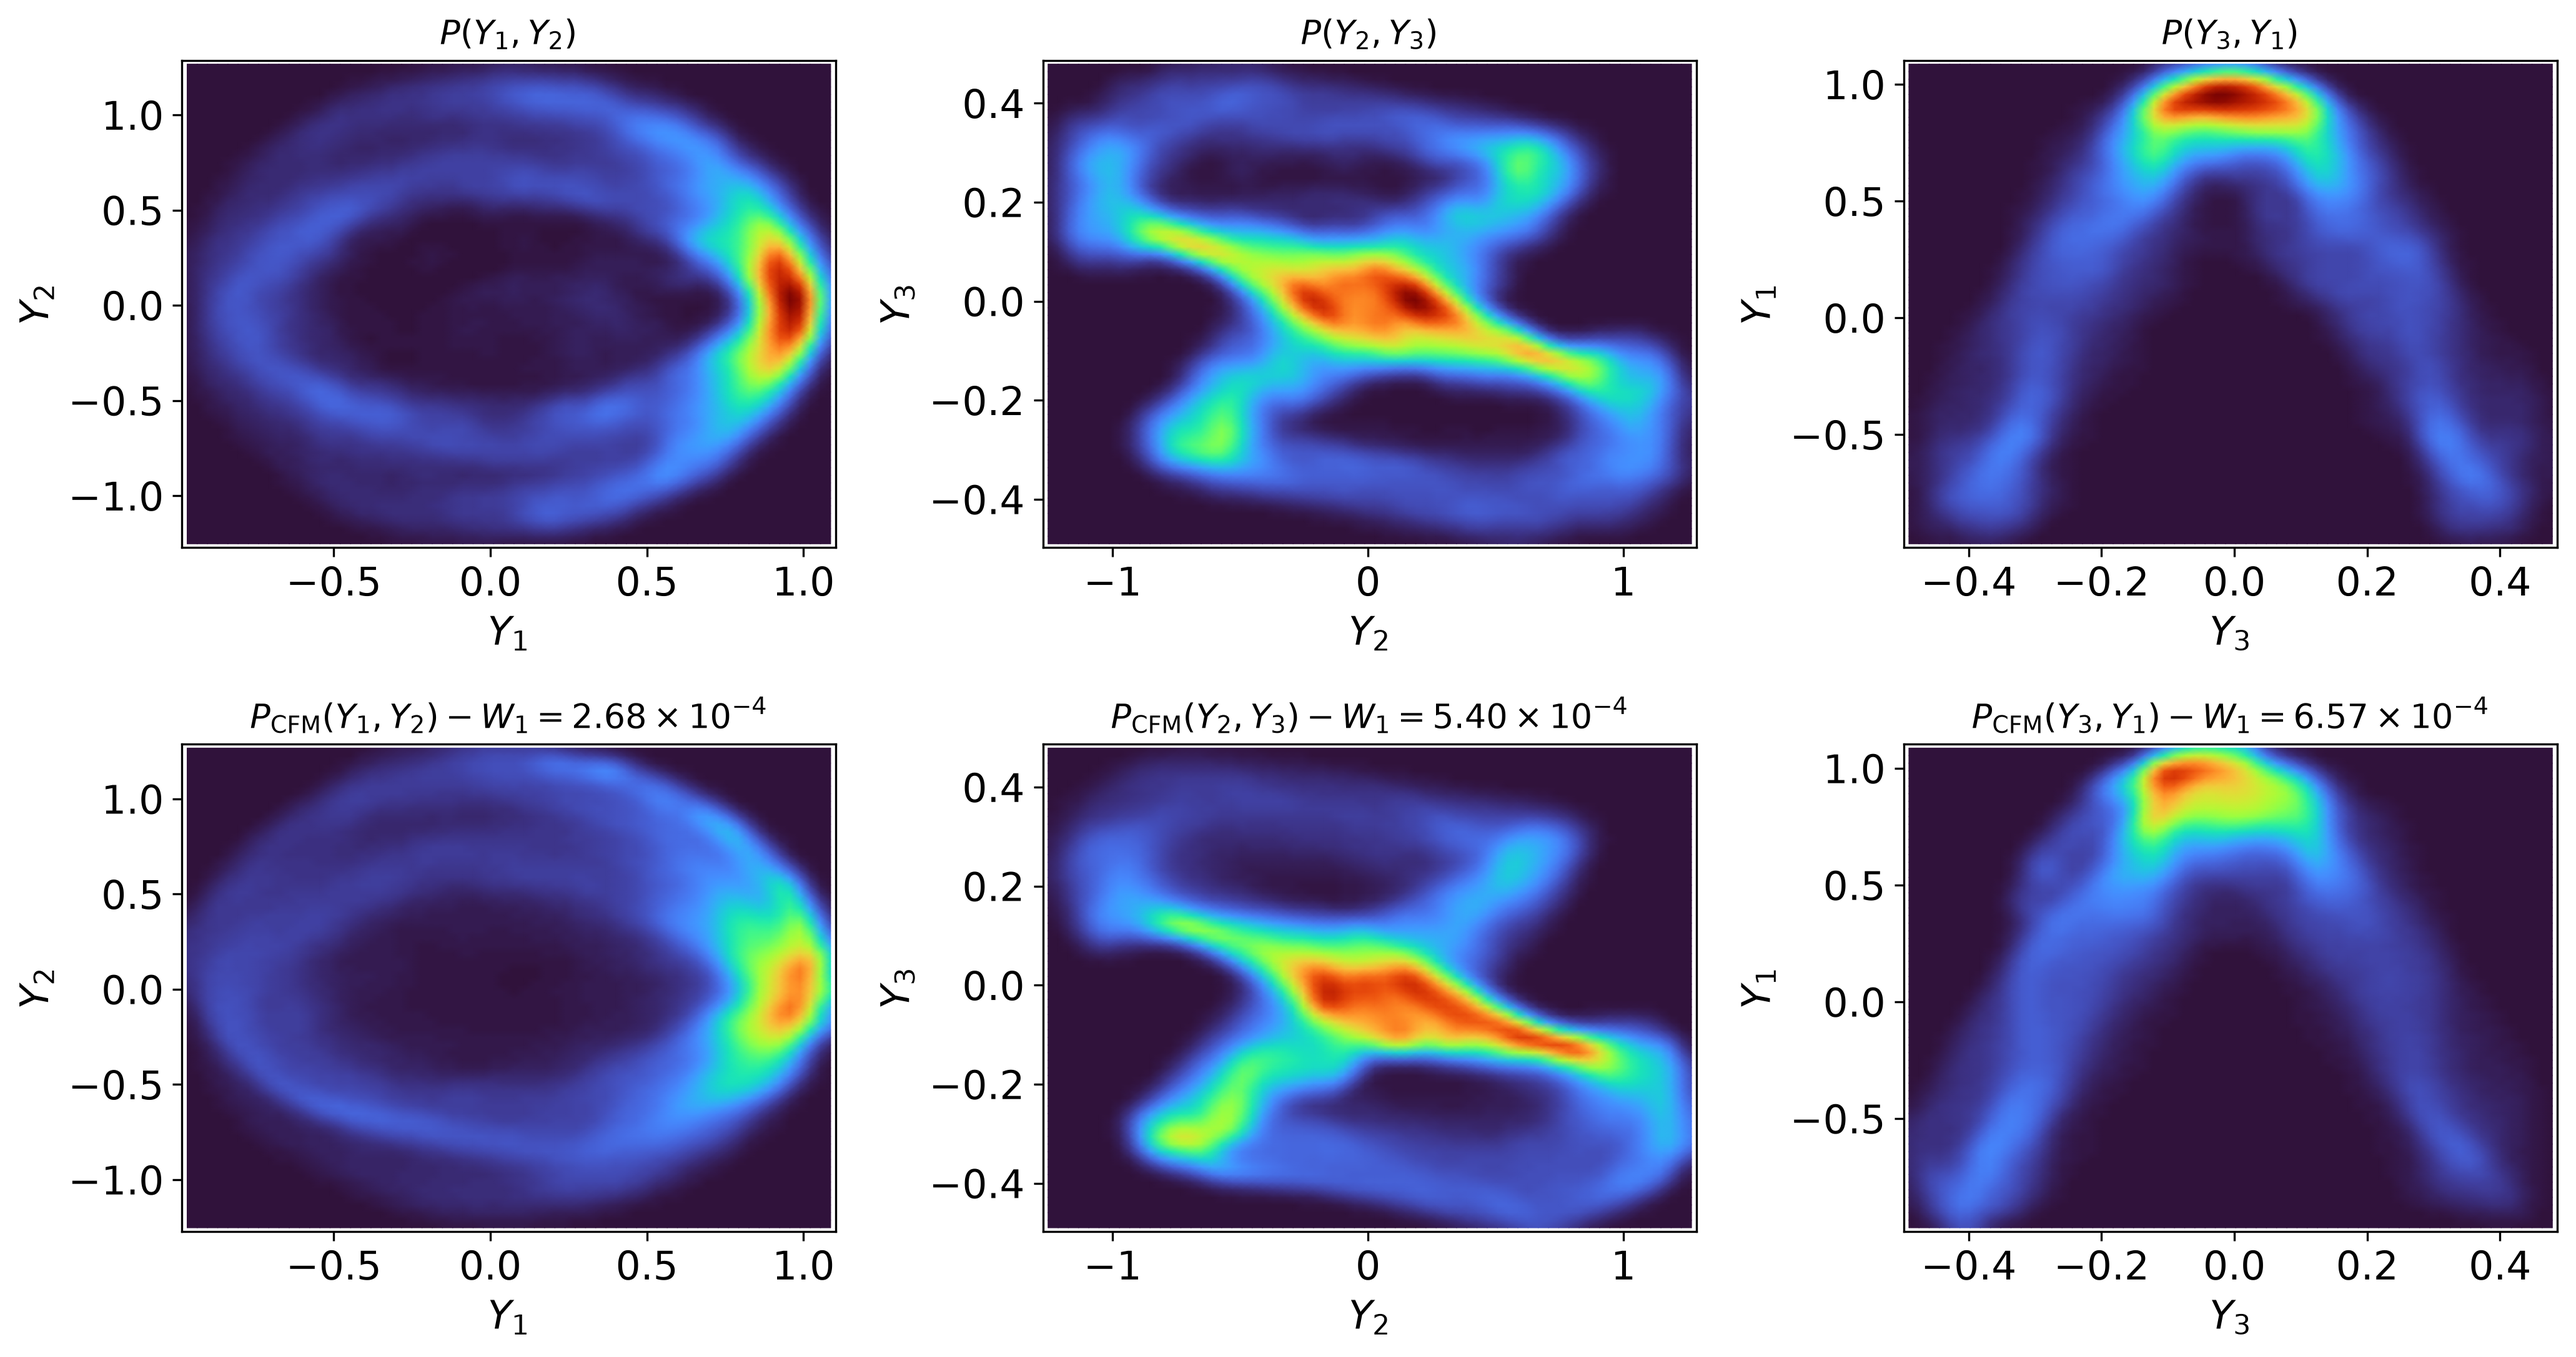
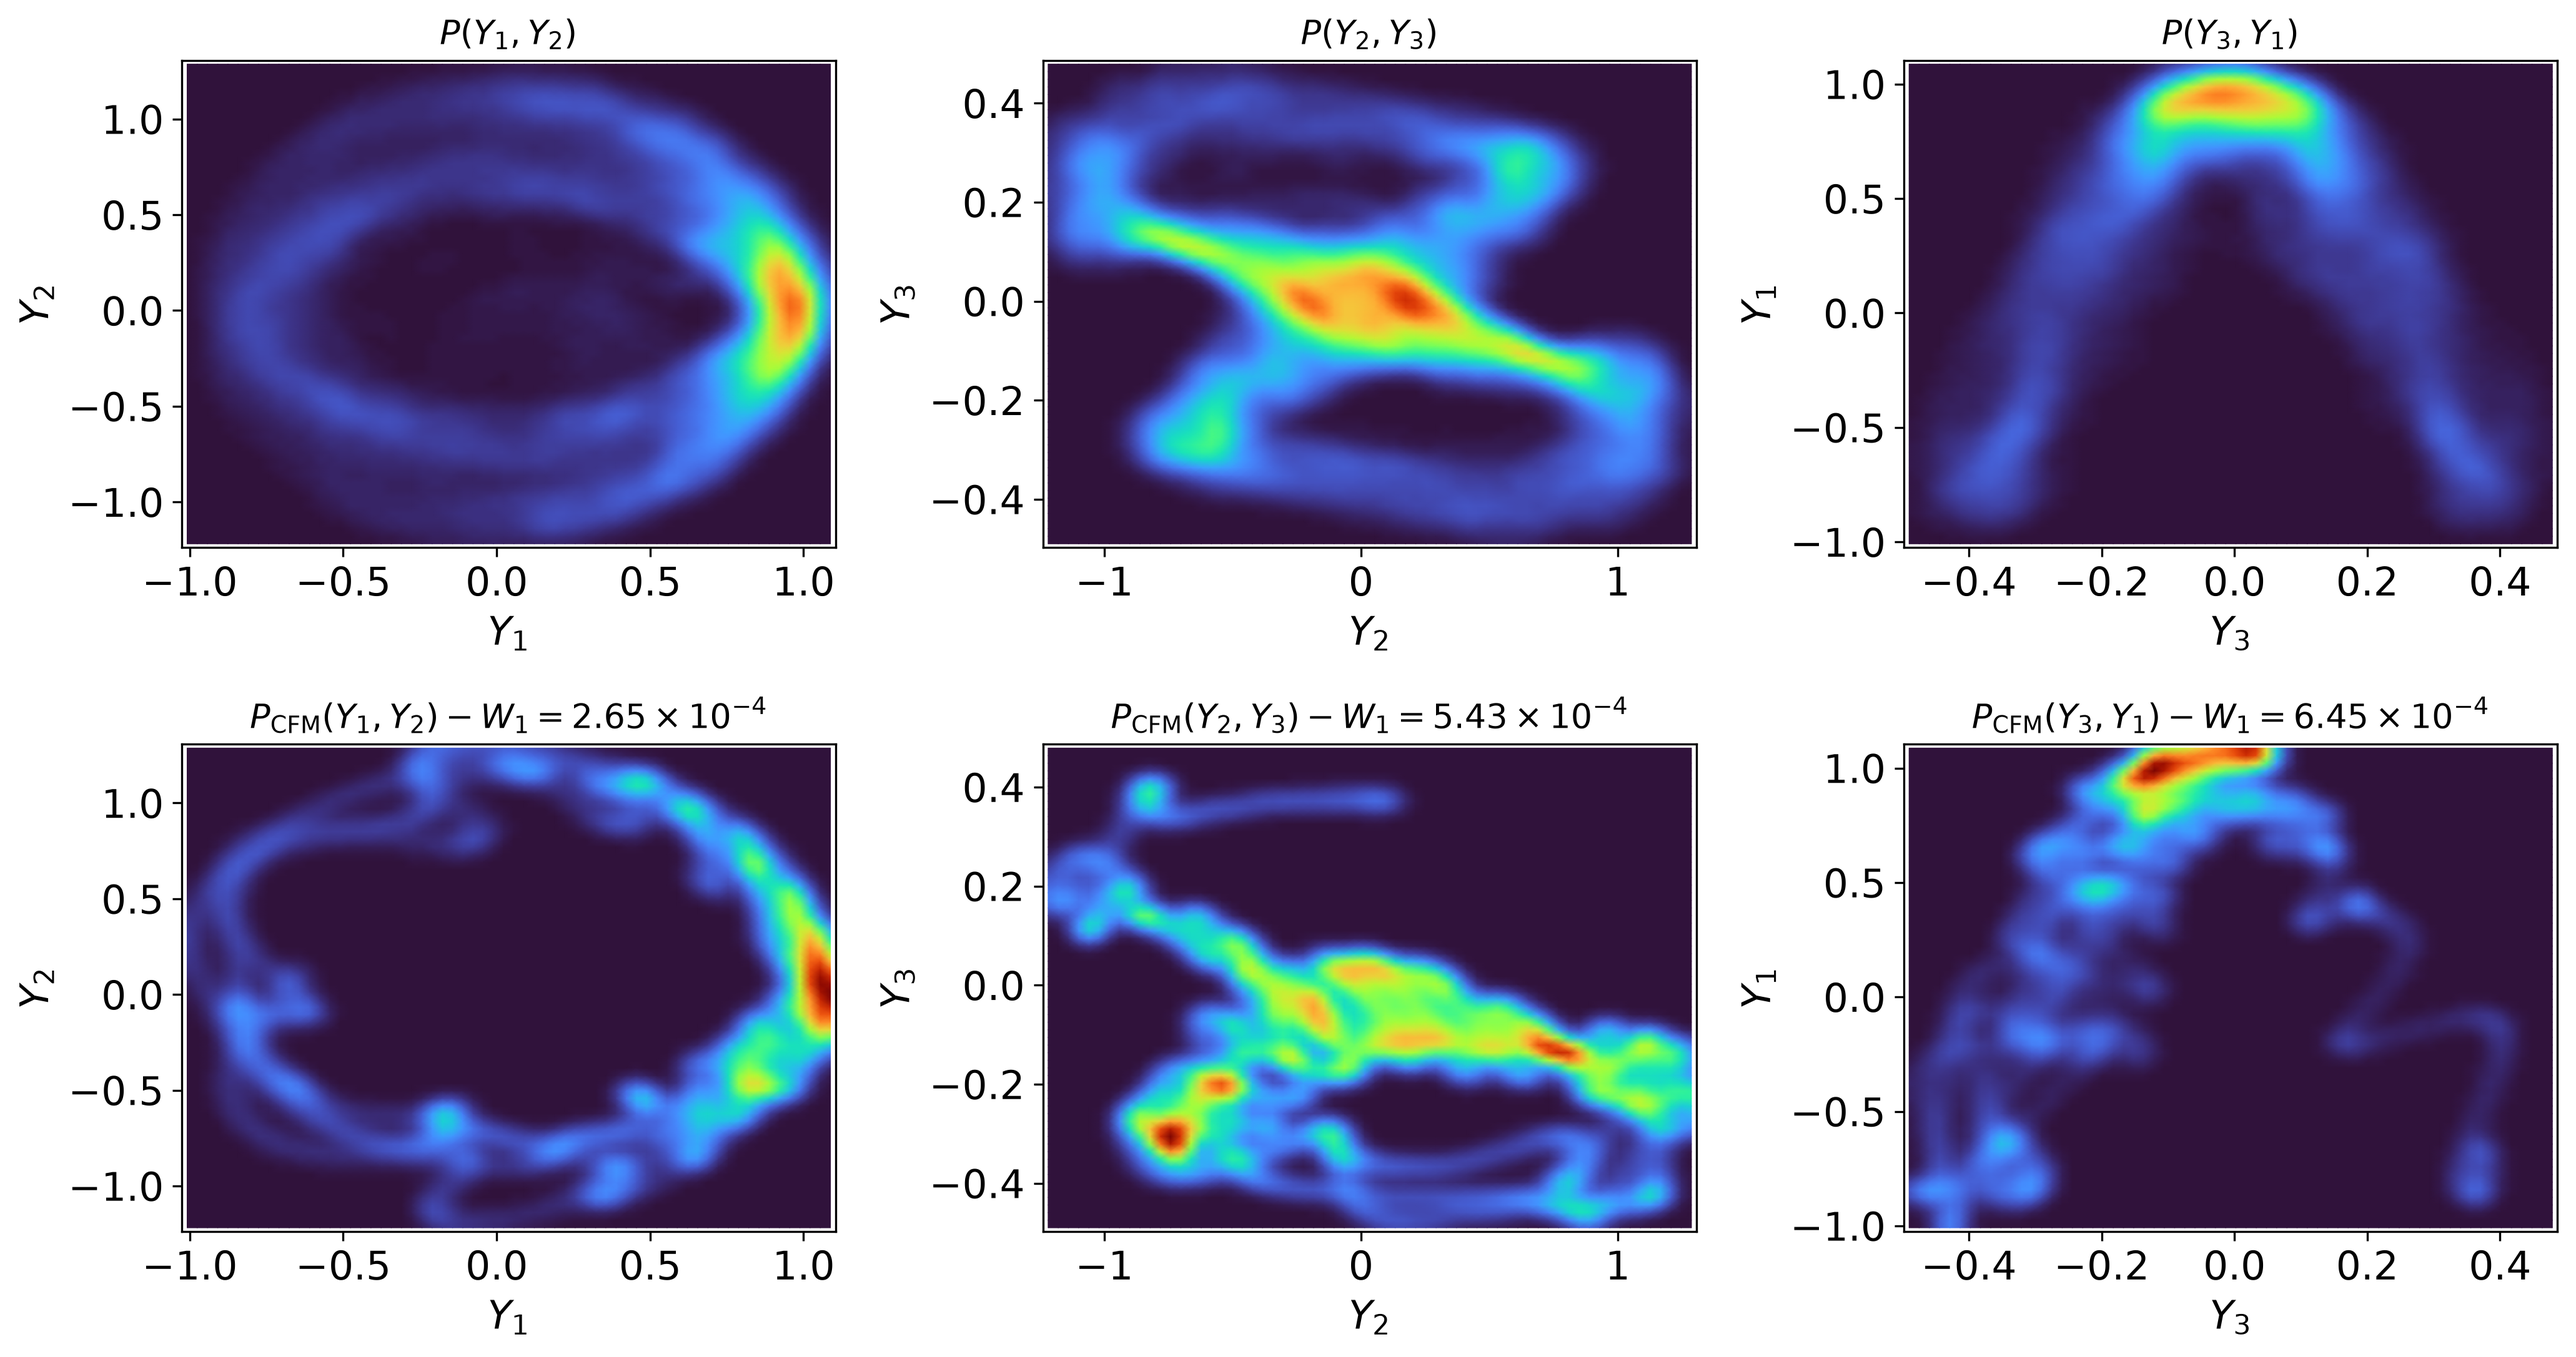
add: tail sampling preliminar strategy
The tail sampling is working, but now the model lost variance
We need to maintain the variance of the ensemble

diff --git a/src/cfm.py b/src/cfm.py
@@ -27,6 +27,7 @@ class CFM:
 
     @torch.no_grad()
     def sample(self, input_samples, N_steps=cfm_steps):
+        # input_samples.shape : (N_samples, 3*K)
         self.model.eval()
         N_ens = input_samples.shape[0]
         device = input_samples.device
@@ -41,6 +42,38 @@ class CFM:
 
         x_hat, z_hat = z_tau[:, 0:3], z_tau[:, 3:6]
         return x_hat, z_hat
+
+    @torch.no_grad()
+    def tail_sample(self, input_samples, N_noise=32, N_steps=cfm_steps):
+        # input_samples.shape : (N_samples, 3*K)
+        self.model.eval()
+        N_ens = input_samples.shape[0]
+        device = input_samples.device
+
+        ext_samples = input_samples.repeat_interleave(N_noise, dim=0)
+        
+        z_tau = torch.randn(N_ens * N_noise, 6, device=device)
+        d_tau = 1.0 / N_steps
+
+        for step in range(N_steps):
+            tau = torch.full((N_ens * N_noise, 1), step * d_tau, device=device)
+            v_flow = self.model(z_tau, tau, ext_samples)
+            z_tau += d_tau * v_flow
+
+        x_hat, z_hat = z_tau[:, 0:3], z_tau[:, 3:6]
+
+        # IMPORTANCE SAMPLING: EVT THEORY
+        R_ind = torch.norm(torch.cat([x_hat, z_hat], dim=-1), dim=-1)
+        R_ind = (R_ind - R_ind.mean()) / (R_ind.std() + 1e-8)
+
+        beta = 5.0
+        weights = torch.exp(beta * R_ind)
+        weights = weights / weights.sum()
+    
+        sample_idxs = torch.multinomial(weights, num_samples=N_ens, replacement=True)
+
+        return x_hat[sample_idxs], z_hat[sample_idxs]
+
 
 # POSITIONAL EMBEDDING
 class TauPosEmb(nn.Module):

diff --git a/run.py b/run.py
@@ -22,7 +22,7 @@ def dYdt(x, y, z):
     dy1dt = (- a3 * b3 * x2 * y3 - a2 * b2 * y2 * x3 + c * (a3 - a2) * y2 * y3 - a1 * x1 - v0 * a1**2 * y1) / a1
     dy2dt = (- a1 * b1 * x3 * y1 - a3 * b3 * y3 * x1 + c * (a1 - a3) * y3 * y1 - a2 * x2 - v0 * a2**2 * y2) / a2
     dy3dt = (- a2 * b2 * x1 * y2 - a1 * b1 * y1 * x2 + c * (a2 - a1) * y1 * y2 - a3 * x3 - v0 * a3**2 * y3) / a3
-
+    
     return torch.stack([dy1dt, dy2dt, dy3dt], dim=-1)
 
 def rk4_step_y(y, x, z, dt=4.2e-3):
@@ -31,7 +31,6 @@ def rk4_step_y(y, x, z, dt=4.2e-3):
     k3 = dYdt(x, y + 0.5 * dt * k2, z)
     k4 = dYdt(x, y + dt * k3, z)
     return y + (dt / 6.0) * (k1 + 2.0 * k2 + 2.0 * k3 + k4)
-
 
 def run():
     torch.set_num_threads(4)
@@ -72,7 +71,7 @@ def run():
         for step in range(N_test):
             Y_cond = hist_buffer[:, ::stride, :].reshape(N_ens, 3 * K)
             
-            CFM_pred = cfm.sample(Y_cond)
+            CFM_pred = cfm.tail_sample(Y_cond)
             X_pred_norm, Z_pred_norm = CFM_pred
             X_pred = X_pred_norm * stdX + meanX
             Z_pred = Z_pred_norm * stdZ + meanZ

diff --git a/config.py b/config.py
@@ -7,7 +7,7 @@ device = torch.device("cuda" if torch.cuda.is_available() else "cpu")
 # DATALOAD PARAMETERS
 idx_0 = 100000
 N_train = 5000000
-N_test = 100000
+N_test = 20000
 
 # CFM PARAMETERS
 K = 100           # Total memory points
